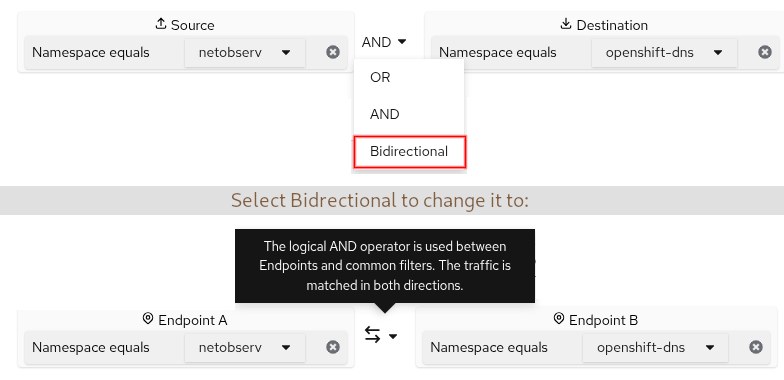
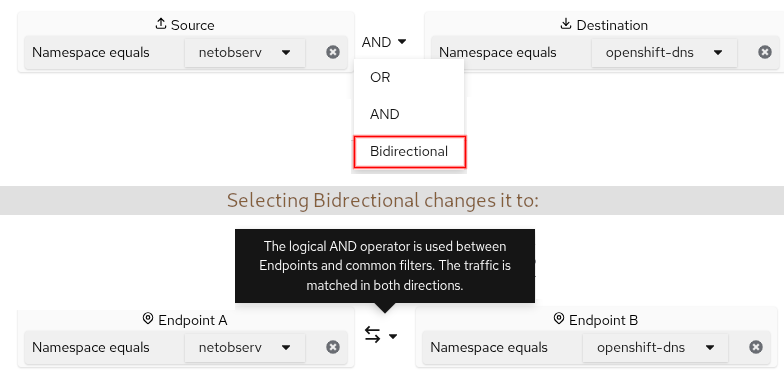
Address feedback. Update images.

Changed region(s): [[0.2755, 0.4921, 0.7041, 0.55]]

diff --git a/content/posts/2026-02-02-whats-new-1-11/index.md b/content/posts/2026-02-02-whats-new-1-11/index.md
@@ -17,7 +17,7 @@ This article highlights the new features in 1.11.  If you’re interested in ear
 
 - Service deployment model
 - FlowCollectorSlice CRD
-- Zero-click Loki
+- Zero-click Loki (demo)
 - DNS name
 - Improvements in network health
 - Recording rules
@@ -64,7 +64,7 @@ spec:
     name: websvc
 ```
 
-The FlowCollectorSlice instances won't take effect unless they are enabled in the FlowCollector.  In OpenShift web console, configure this in the **Processor configuration** in **Slices configuration**.  On the terminal, enter `oc edit flowcollector`, and configure the following under the **processor** section:
+The FlowCollectorSlice instances won't take effect unless they are enabled in the FlowCollector.  In OpenShift web console, click **Processor configuration** and then **Slices configuration** to configure this.  Alternatively, on the terminal, enter `oc edit flowcollector`, and configure the following under the **processor** section:
 
 ```yaml
 spec:
@@ -86,7 +86,7 @@ spec:
 
 The **collectionMode** must be set to `AllowList` for **namespacesAllowList** to take effect.  The first element of **namespacesAllowList** is an exact match for `webapp`.  The second element specifies a regular expression because it's between the forward slashes.
 
-## Zero-click Loki
+## Zero-click Loki (demo)
 
 Deploying a FlowCollector instance was made easier with the introduction of a wizard in 1.9.  If you want to test Network Observability with Loki enabled, you still have to create a Loki instance and provide storage.
 
@@ -113,7 +113,7 @@ spec:
         DNSTracking
 ```
 
-It now retrieves the DNS name.  In OpenShift web console, go to **Observe > Network Traffic** and click the **Traffic flows** tab.  Click **Show advanced options** and then **Manage columns**.  Scroll down and enable `DNS Name` to add this column.  Now you will see this column (Figure 3).
+It now retrieves the DNS name.  Technically, in a DNS query, it is the QNAME field.  In OpenShift web console, go to **Observe > Network Traffic** and click the **Traffic flows** tab.  Click **Show advanced options** and then **Manage columns**.  Scroll down and enable `DNS Name` to add this column.  Now you will see this column (Figure 3).
 
 ![Traffic flows - DNS Name](traffic_flows-dns_name.png)<br>
 Figure 3. This is the Traffic flows table with the DNS Name column.
@@ -183,10 +183,10 @@ The dialog is mostly self-explanatory, so I won't get into details.  The right a
 
 You are able to make changes to the configured filter expressions, including changing the field value.  For example, suppose you have "Namespace equals netobserv".  The "Namespace" means source or destination namespace.  Click the dropdown for "netobserv" and select **As source**.  This changes the field to be Source Namespace only.  Changing the field value might move the entire expression to a new location, because you can't have the same field name repeated twice in the entire expression.
 
-A field name with multiple values means it must match any one of the values (*OR* condition).  In between the fields is typically an *AND* condition but can be changed to *OR*.  There's a special case where *Bidirectional* might be a choice.  For example, suppose you have "Source Namespace equals netobserv" *AND* "Destination Namespace equals openshift-dns".  If you change AND to "Bidirectional", which means the source and destination could be swapped, then it changes the Source and Destination labels to **Endpoint A** and **Endpoint B** (Figure 8).
+A field name with multiple values means it must match any one of the values (*OR* condition).  In between the fields is typically an *AND* condition but can be changed to *OR*.  There's a special case where *Bidirectional* might be a choice.  For example, suppose you have "Source Namespace equals netobserv" *AND* "Destination Namespace equals openshift-dns".  If you change AND to "Bidirectional", then it also includes the traffic when the source and destination are swapped.  For the UI, the Source and Destination labels change to **Endpoint A** and **Endpoint B** respectively (Figure 8).
 
 ![Network Traffic - Filter expression](network_traffic-filter_expression.png)<br>
-Figure 8. It shows the behavior of Bidirectional in the filter expression.
+Figure 8. This is how the UI is changed when you specify Bidirectional between two filter expressions.
 
 ### Quick filters
 
@@ -217,10 +217,12 @@ If the subnet label name is blank or **EXT:**, then it is considered external tr
 Network Observability recognizes the Kubernetes Gateway object.  The owner of a pod is often times a Deployment, but if the owner of the Deployment is a Gateway, such as if Red Hat OpenShift Service Mesh 3 or Istio is installed, then Network Observability will show this owner object as a gateway instead (Figure 10).  To view the Gateway traffic, it provides a link to the Gateway resource page.
 
 ![Topology - Gateweay](topology-gateway_icon.png)<br>
-Figure 10. The Topology tab shows a gateway icon.
+Figure 10. The Topology view shows a gateway icon.
 
 ## Summary
 
 This release provides features that allow you to have better control on how resources are used with the Service deployment model and the FlowCollector CRD.  There were improvements in the Network Health dashboard and support of recording rules.  Ease-of-use improvements were made in the UI filters and a zero-click Loki setup.  And finally, the DNS name was added and the Kubernetes Gateway object is now recognized.
 
 We want to make a bigger push to serve the community, so if there's something on your wishlist, go to the [discussion board](https://github.com/netobserv/network-observability-operator/discussions) and let us know what you have in mind!  Until next time...
+
+_Special thanks to Julien Pinsonneau, Olivier Cazade, and Amogh Rameshappa Devapura for reviewing this article._
